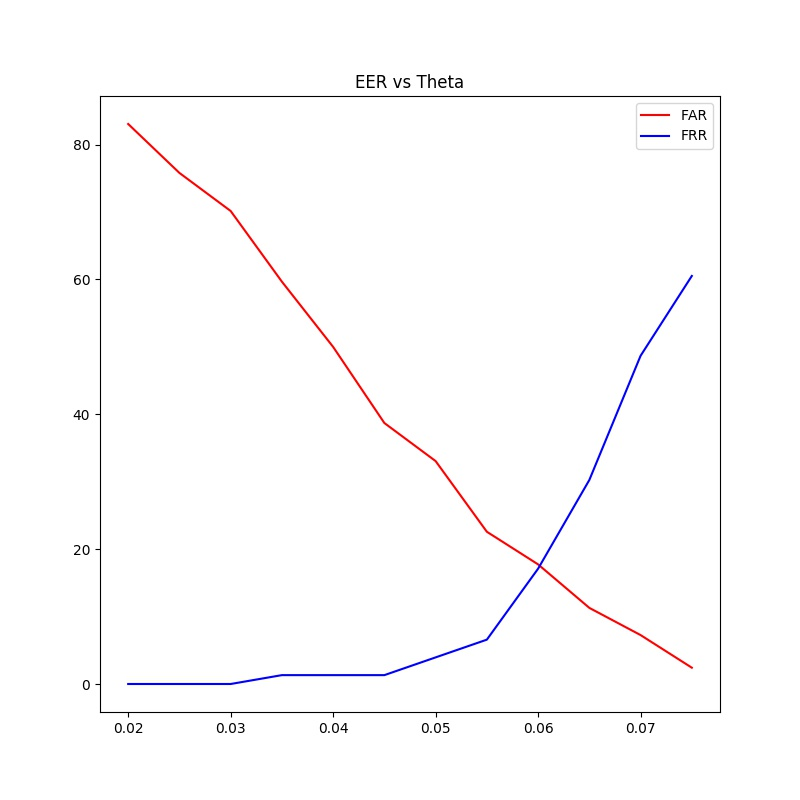
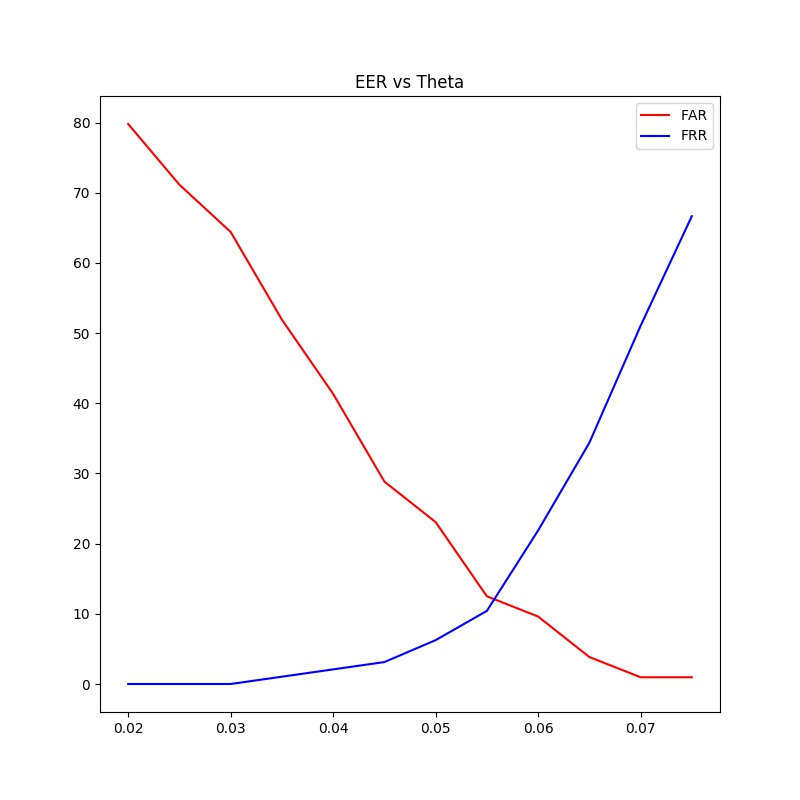
Demo and other fixes

diff --git a/src/demo.py b/src/demo.py
@@ -6,10 +6,6 @@ import pickle
 import threading
 import numpy as np
 import matplotlib.pyplot as plt
-# User defined Modules
-from createDB import createDB
-from plots import plot_matches, plot_EER
-from classify import classify_matched, thread_helper
 
 
 ############################### Helper Functions ##############################
@@ -27,4 +23,58 @@ def loadData(filename):
     return pickle.load(dbfile)
 ###############################################################################
 
+
+def annotate(test_img, DB, threshold):
+    """ Annotate keypoints """
+
+    # Compute SURF Keypoints
+    surf = cv2.xfeatures2d.SURF_create(hessianThreshold = 1000, extended = 1)
+    kp, des = surf.detectAndCompute(test_img, None)
+
+    # Find matching and non-matching Keypoints
+    kp1 = []
+    for i in range(des.shape[0]):
+        min_dist = np.min(np.linalg.norm(DB - des[i], axis=1))
+        if min_dist <= threshold:
+            kp1.append(kp[i])
+
+    # Annotate image
+    test_img = cv2.drawKeypoints(test_img, kp1, None, (255,0,0), 4)
+    return test_img
+
+
+# Load Pre-generated refernce database and match percentages
 threshold = 0.11
+DB = loadData('../Pickles/database.pkl')
+genuine_match, disguise_match, simulated_match = loadData('../Pickles/vals' +
+                                          str(threshold) + '.pkl')
+# Find good, bad and average cases
+gm = np.argsort(genuine_match)
+dm = np.argsort(disguise_match)
+sm = np.argsort(simulated_match)
+gm = gm[[0, int(gm.shape[0] / 2), -1]]
+dm = dm[[0, int(dm.shape[0] / 2), -1]]
+sm = sm[[-1, int(sm.shape[0] / 2), 0]]
+matches = np.concatenate((genuine_match[gm], disguise_match[dm], simulated_match[sm]))
+
+
+# Annotate the image with SURF keypoints
+img = []
+for i, type in enumerate(['Genuine', 'Disguise', 'Simulated']):
+    path = '../TrainingSet/' + type + '/'
+    file_names = os.listdir(path)
+    for j in [gm, dm, sm][i]:
+        img.append(annotate(cv2.imread(path + file_names[j],
+                             cv2.IMREAD_GRAYSCALE), DB, threshold))
+
+
+# Display
+for i, type in enumerate(['Genuine', 'Disguise', 'Simulated']):
+    fig = plt.figure(figsize = (20, 20))
+    fig.suptitle(type + ' Signatures', fontsize = 16)
+    for j, case in enumerate(['Bad Case', 'Average Case', 'Good Case']):
+        plt.subplot(2, 2, j + 1)
+        plt.imshow(img[3 * i + j])
+        plt.title(case + ', Score: ' + str(round(matches[3 * i + j], 4)))
+    plt.savefig('../Plots/Demo' + str(i + 1) + '.jpg')
+    plt.show()

diff --git a/src/main_test.py b/src/main_test.py
@@ -32,7 +32,7 @@ def loadData(filename):
 DB = createDB('../TestSet/Reference/')
 storeData(DB, '../Pickles/database_test.pkl')
 DB = loadData('../Pickles/database_test.pkl')
-threshold = 0.13
+threshold = 0.11
 
 
 # Matched Points Percentage for each type of signature
@@ -56,11 +56,22 @@ plot_matches(genuine_match, disguise_match, simulated_match, '_test')
 # Calculate FAR and FRR
 far = []
 frr = []
-theta_range = np.arange(0.21, 0.24, 0.005)
+theta_range = np.arange(0.05, 0.25, 0.005)
 for theta in theta_range:
-    ind = np.where(genuine_match < theta)
-    ind1 = np.where(disguise_match > theta)
-    ind2 = np.where(simulated_match > theta)
-    frr.append(ind[0].shape[0] / genuine_match.shape[0] * 100)
-    far.append((ind1[0].shape[0] + ind2[0].shape[0]) / (disguise_match.shape[0] + simulated_match.shape[0]) * 100)
-plot_EER(theta_range, far, frr, '_test')
+    ind1 = np.where(genuine_match < theta)
+    ind2 = np.where(disguise_match < theta)
+    ind3 = np.where(simulated_match > theta)
+    frr.append((ind1[0].shape[0] + ind2[0].shape[0]) / (genuine_match.shape[0] + disguise_match.shape[0]) * 100)
+    far.append(ind3[0].shape[0] / simulated_match.shape[0] * 100)
+plot_EER(theta_range, far, frr, threshold)
+
+
+# Compute Confidence Matrix
+eer = 0.13
+ind = np.where(genuine_match < eer)
+ind1 = np.where(disguise_match < eer)
+ind2 = np.where(simulated_match > eer)
+print('\t\tGenuine\tFake')
+print('Genuine\t\t' + str(genuine_match.shape[0] - ind[0].shape[0]) + '\t' + str(ind[0].shape[0]))
+print('Disguise\t' + str(disguise_match.shape[0] - ind1[0].shape[0]) + '\t' + str(ind1[0].shape[0]))
+print('Simulated\t' + str(ind2[0].shape[0]) + '\t' + str(simulated_match.shape[0] - ind2[0].shape[0]))

diff --git a/src/main_train.py b/src/main_train.py
@@ -57,20 +57,20 @@ far = []
 frr = []
 theta_range = np.arange(0.01, 0.05, 0.005)
 for theta in theta_range:
-    ind = np.where(genuine_match < theta)
-    ind1 = np.where(disguise_match > theta)
-    ind2 = np.where(simulated_match > theta)
-    frr.append(ind[0].shape[0] / genuine_match.shape[0] * 100)
-    far.append((ind1[0].shape[0] + ind2[0].shape[0]) / (disguise_match.shape[0] + simulated_match.shape[0]) * 100)
+    ind1 = np.where(genuine_match < theta)
+    ind2 = np.where(disguise_match < theta)
+    ind3 = np.where(simulated_match > theta)
+    frr.append((ind1[0].shape[0] + ind2[0].shape[0]) / (genuine_match.shape[0] + disguise_match.shape[0]) * 100)
+    far.append(ind3[0].shape[0] / simulated_match.shape[0] * 100)
 plot_EER(theta_range, far, frr, threshold)
 
 
 # Compute Confidence Matrix
-eer = 0.03
+eer = 0.0275
 ind = np.where(genuine_match < eer)
-ind1 = np.where(disguise_match > eer)
+ind1 = np.where(disguise_match < eer)
 ind2 = np.where(simulated_match > eer)
 print('\t\tGenuine\tFake')
 print('Genuine\t\t' + str(genuine_match.shape[0] - ind[0].shape[0]) + '\t' + str(ind[0].shape[0]))
-print('Disguise\t' + str(ind1[0].shape[0]) + '\t' + str(disguise_match.shape[0] - ind1[0].shape[0]))
+print('Disguise\t' + str(disguise_match.shape[0] - ind1[0].shape[0]) + '\t' + str(ind1[0].shape[0]))
 print('Simulated\t' + str(ind2[0].shape[0]) + '\t' + str(simulated_match.shape[0] - ind2[0].shape[0]))
